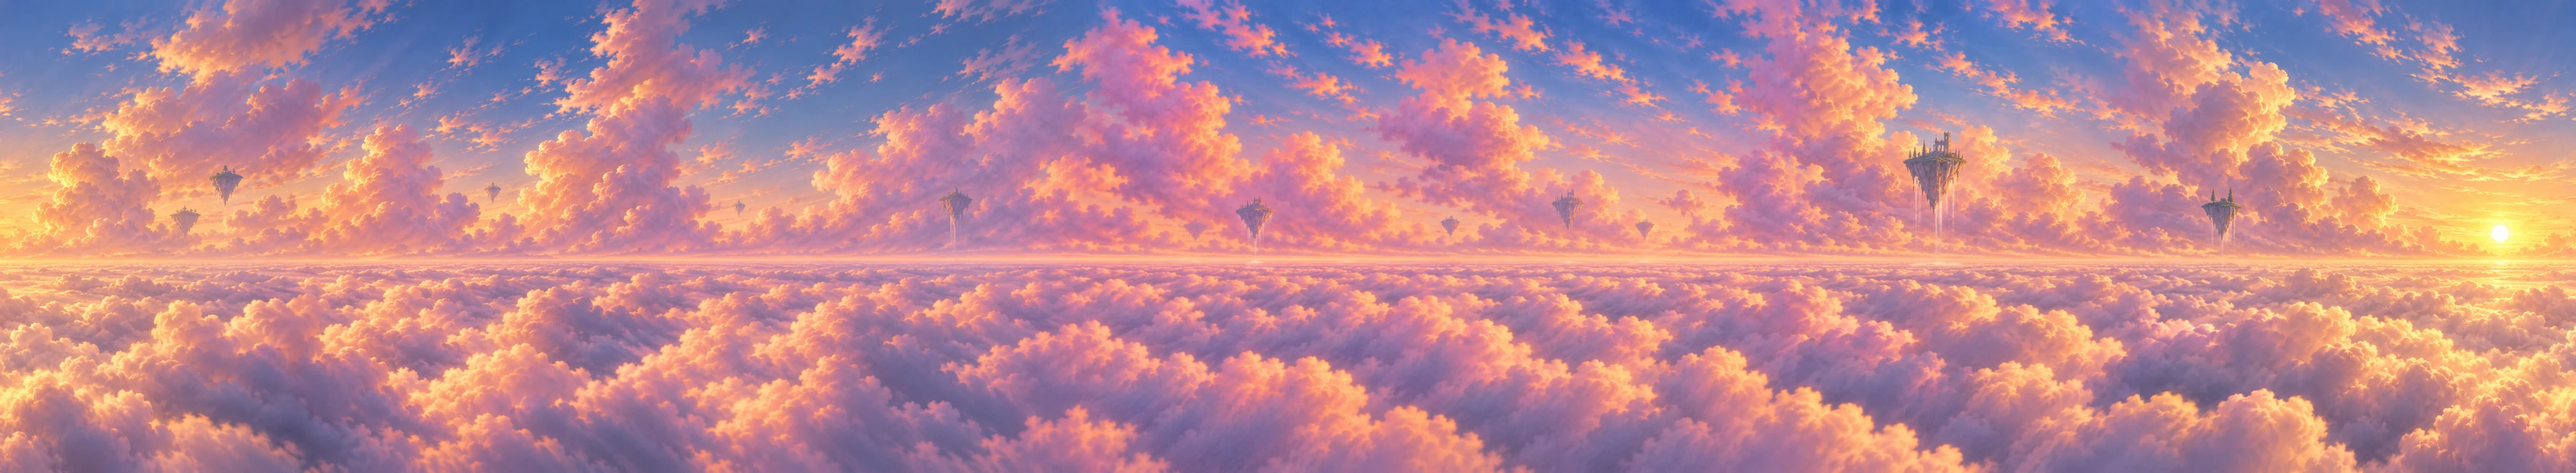
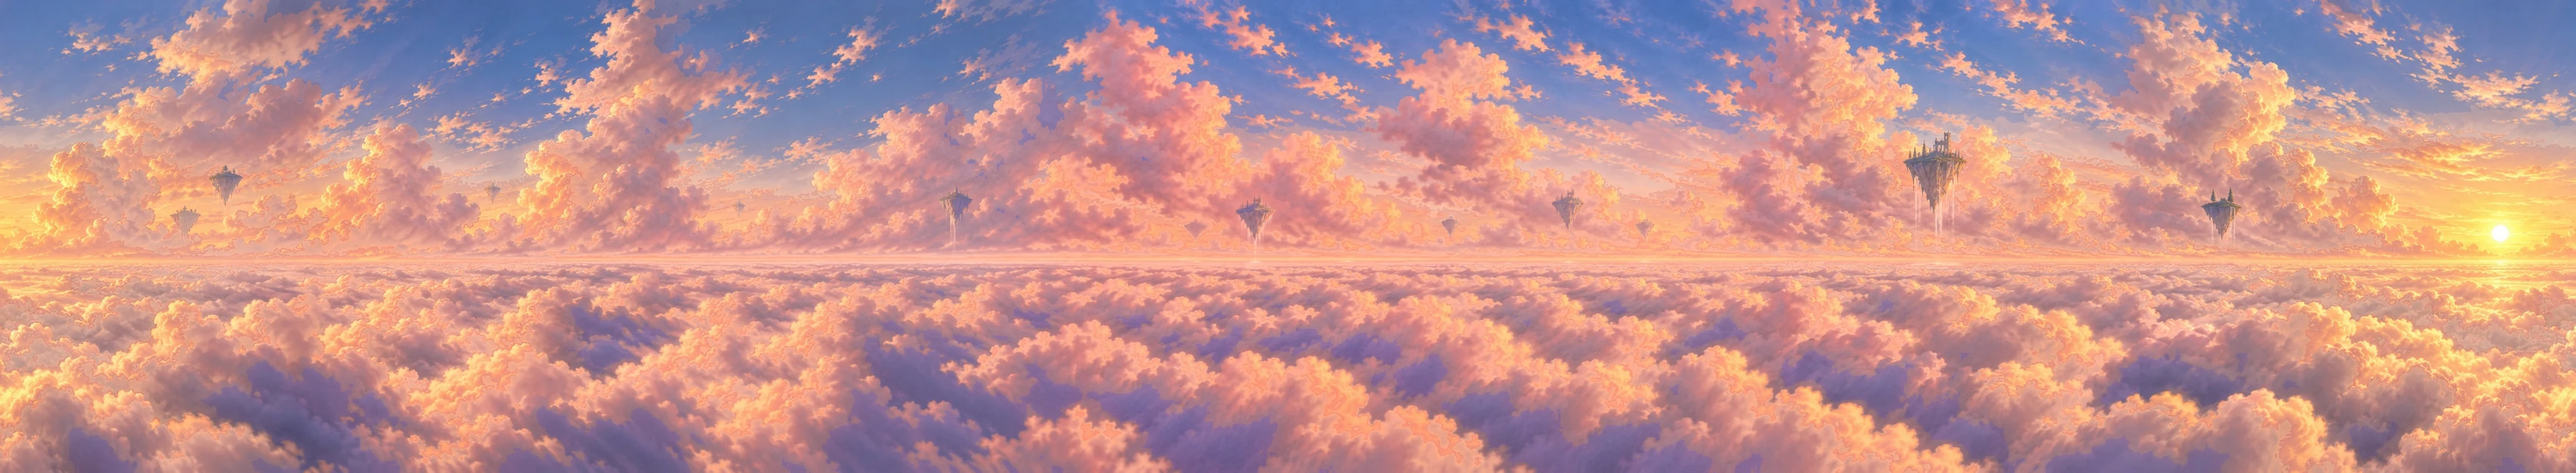
E392 Sky Reach toward the mockups, loop 10: a golden sky, the maelstrom under the crown, stone and ivy on the windmill, painted boulders
Judge on loop 9: 5.1 / 10 (H1 6, H2 6, H3 5, H4 3.5). This loop takes its top fixes:
- the painted sky graded toward the mockups' golden hour (round-17-mockup-loop/sky-grade.py: rose and magenta toward
  peach-cream, lavender high up toward blue), re-packed through prep.py (now takes a source image);
- the maelstrom: the near cloud sea twists toward a dark sunken eye under the storm crown, with bright spiral arms
  (look/cloudSea.ts SEA.maelstrom; the H4 top / diagonal targets), the sea's palette cooler lavender and cream;
- the windmill whitewash shows its stone (the islands' paint, lightly) with ivy climbing two sides from the foot;
- the boulders wear the islands' painted rock and moss (world/isle.ts paintIsleMaterial, shared);
- the two overhead sky isles moved clear of every god camera (one sat inside H3's diag-right view).

Claude-Session: https://claude.ai/code/session_01KzpL9cMyh5i2XoaL4jSdNw

diff --git a/src/shards/far-reach/look/panoramaData.ts b/src/shards/far-reach/look/panoramaData.ts
@@ -6,9 +6,9 @@ export const PANO_DEG_PER_V = 66.667;
 /** columns of wrap on either side of the shipped strips (the shader maps the heading inside them) */
 export const PANO_PAD_PX = 16;
 /** the painted sun: heading (degrees, 0 = -z, 90 = +x) and elevation (degrees) */
-export const PANO_SUN = { heading: 351.18, elevation: 4.29 } as const;
+export const PANO_SUN = { heading: 352.54, elevation: 4.75 } as const;
 /** sRGB 0..1: the painting's top rows (the dome above them) and bottom rows (the dome below) */
-export const PANO_ZENITH_SRGB = [0.3927, 0.4466, 0.6862] as const;
-export const PANO_NADIR_SRGB = [0.6022, 0.4345, 0.5389] as const;
+export const PANO_ZENITH_SRGB = [0.4208, 0.4793, 0.6817] as const;
+export const PANO_NADIR_SRGB = [0.6259, 0.4583, 0.5149] as const;
 /** the fog LUT: per heading (64 samples from 0), the painted haze just above the horizon, sRGB 0..1 (r, g, b interleaved) */
-export const PANO_FOG_SRGB = [0.9624, 0.7152, 0.4762, 0.9522, 0.6957, 0.4934, 0.9411, 0.6558, 0.5039, 0.9277, 0.6326, 0.5210, 0.9166, 0.6185, 0.5305, 0.9116, 0.6103, 0.5337, 0.9083, 0.6038, 0.5357, 0.9095, 0.6014, 0.5378, 0.8989, 0.5907, 0.5451, 0.8880, 0.5793, 0.5506, 0.8854, 0.5760, 0.5560, 0.8825, 0.5746, 0.5622, 0.8711, 0.5686, 0.5734, 0.8645, 0.5640, 0.5839, 0.8562, 0.5593, 0.5919, 0.8594, 0.5604, 0.5945, 0.8648, 0.5629, 0.5973, 0.8619, 0.5614, 0.6018, 0.8580, 0.5606, 0.6086, 0.8586, 0.5639, 0.6144, 0.8503, 0.5660, 0.6232, 0.8493, 0.5690, 0.6285, 0.8520, 0.5702, 0.6305, 0.8567, 0.5692, 0.6271, 0.8686, 0.5716, 0.6164, 0.8802, 0.5736, 0.6060, 0.8966, 0.5794, 0.5913, 0.9144, 0.5812, 0.5758, 0.9264, 0.5810, 0.5635, 0.9315, 0.5799, 0.5534, 0.9388, 0.5857, 0.5447, 0.9352, 0.5835, 0.5477, 0.9326, 0.5828, 0.5510, 0.9241, 0.5791, 0.5576, 0.9176, 0.5770, 0.5604, 0.9207, 0.5822, 0.5581, 0.9255, 0.5914, 0.5566, 0.9285, 0.5977, 0.5577, 0.9368, 0.6100, 0.5531, 0.9441, 0.6190, 0.5472, 0.9494, 0.6223, 0.5421, 0.9521, 0.6238, 0.5411, 0.9497, 0.6242, 0.5402, 0.9477, 0.6233, 0.5381, 0.9437, 0.6206, 0.5372, 0.9409, 0.6197, 0.5384, 0.9352, 0.6150, 0.5381, 0.9349, 0.6163, 0.5345, 0.9331, 0.6156, 0.5285, 0.9331, 0.6147, 0.5254, 0.9264, 0.6113, 0.5273, 0.9233, 0.6118, 0.5267, 0.9160, 0.6066, 0.5258, 0.9072, 0.6038, 0.5267, 0.8977, 0.5986, 0.5282, 0.8976, 0.6020, 0.5254, 0.8989, 0.6070, 0.5222, 0.9111, 0.6180, 0.5101, 0.9198, 0.6375, 0.4953, 0.9321, 0.6805, 0.4872, 0.9499, 0.7055, 0.4717, 0.9656, 0.7198, 0.4626, 0.9735, 0.7261, 0.4618, 0.9749, 0.7261, 0.4637];
+export const PANO_FOG_SRGB = [0.9639, 0.7232, 0.4794, 0.9567, 0.7075, 0.4982, 0.9503, 0.6749, 0.5117, 0.9427, 0.6614, 0.5322, 0.9378, 0.6578, 0.5453, 0.9383, 0.6593, 0.5517, 0.9396, 0.6611, 0.5563, 0.9432, 0.6632, 0.5587, 0.9379, 0.6594, 0.5638, 0.9303, 0.6512, 0.5651, 0.9295, 0.6497, 0.5680, 0.9276, 0.6487, 0.5713, 0.9184, 0.6428, 0.5762, 0.9143, 0.6400, 0.5819, 0.9070, 0.6329, 0.5826, 0.9106, 0.6346, 0.5843, 0.9163, 0.6381, 0.5874, 0.9138, 0.6352, 0.5880, 0.9107, 0.6334, 0.5909, 0.9116, 0.6360, 0.5954, 0.9040, 0.6356, 0.6011, 0.9027, 0.6373, 0.6054, 0.9043, 0.6373, 0.6056, 0.9076, 0.6357, 0.6015, 0.9168, 0.6377, 0.5947, 0.9259, 0.6396, 0.5882, 0.9379, 0.6430, 0.5790, 0.9525, 0.6459, 0.5696, 0.9634, 0.6486, 0.5627, 0.9674, 0.6479, 0.5560, 0.9719, 0.6504, 0.5511, 0.9699, 0.6501, 0.5534, 0.9691, 0.6528, 0.5581, 0.9638, 0.6527, 0.5640, 0.9593, 0.6525, 0.5665, 0.9605, 0.6551, 0.5659, 0.9632, 0.6611, 0.5665, 0.9640, 0.6634, 0.5668, 0.9674, 0.6678, 0.5626, 0.9700, 0.6692, 0.5564, 0.9733, 0.6708, 0.5526, 0.9753, 0.6720, 0.5522, 0.9730, 0.6717, 0.5514, 0.9705, 0.6700, 0.5490, 0.9678, 0.6688, 0.5487, 0.9660, 0.6692, 0.5509, 0.9615, 0.6656, 0.5509, 0.9599, 0.6643, 0.5473, 0.9567, 0.6615, 0.5422, 0.9565, 0.6600, 0.5394, 0.9510, 0.6575, 0.5406, 0.9477, 0.6579, 0.5400, 0.9414, 0.6540, 0.5397, 0.9345, 0.6538, 0.5416, 0.9263, 0.6505, 0.5437, 0.9247, 0.6507, 0.5409, 0.9225, 0.6499, 0.5359, 0.9297, 0.6535, 0.5227, 0.9351, 0.6680, 0.5062, 0.9435, 0.7047, 0.4955, 0.9554, 0.7204, 0.4773, 0.9660, 0.7268, 0.4655, 0.9706, 0.7277, 0.4626, 0.9715, 0.7267, 0.4641];

diff --git a/src/shards/far-reach/look/cloudSea.ts b/src/shards/far-reach/look/cloudSea.ts
@@ -8,7 +8,8 @@ import { SKY } from './sun';
  * the sun gold-pink, shade mauve, melting into the horizon gold with distance. The kill height (`world.killY`) sits just
  * above the high sheet, so a fall ends inside the cloud.
  */
-export const SEA = { size: 64, low: -48, high: -34, radius: 1400, handoff: [240, 700] } as const;
+/** `maelstrom`: the sea twists toward an eye under the storm crown (x, z, falloff radius m). */
+export const SEA = { size: 64, low: -48, high: -34, radius: 1400, handoff: [240, 700], maelstrom: { x: 0, z: -190, r: 95 } } as const;
 
 function hash(x: number, y: number): number { const s = Math.sin(x * 127.1 + y * 311.7) * 43758.5453; return s - Math.floor(s); }
 function noise(x: number, y: number, p: number): number {
@@ -55,7 +56,12 @@ export function cloudSea(sun: Vector3, tex: DataTexture): CloudSea {
           // loop 4: billows, not a sheet. A height field from three octaves of the baked noise; its slope toward the sun
           // lights the billow tops peach-gold and leaves lavender hollows (the panorama's cloud sea, look/sky.ts)
           vec2 drift = vec2(time * 0.0035, time * 0.0012);
-          vec2 uv = wp.xz * ${scale.toFixed(5)} + drift;
+          // the maelstrom round the storm crown (E392, the H4 targets): the sea's texture twisted toward an eye
+          vec2 rel = wp.xz - vec2(${SEA.maelstrom.x.toFixed(1)}, ${SEA.maelstrom.z.toFixed(1)});
+          float mr = length(rel), swirl = exp(-mr / ${SEA.maelstrom.r.toFixed(1)});
+          float ma = swirl * 3.2 + time * 0.03 * swirl;
+          vec2 twisted = vec2(cos(ma) * rel.x - sin(ma) * rel.y, sin(ma) * rel.x + cos(ma) * rel.y) + vec2(${SEA.maelstrom.x.toFixed(1)}, ${SEA.maelstrom.z.toFixed(1)});
+          vec2 uv = twisted * ${scale.toFixed(5)} + drift;
           vec2 sd = normalize(sunDir.xz) * 0.006;
           float h1 = texture2D(tex, uv).r, h2 = texture2D(tex, uv * 2.7 + 0.37).r, h3 = texture2D(tex, uv * 7.1 - 0.21).r;
           float h = h1 * 0.6 + h2 * 0.3 + h3 * 0.1;
@@ -69,6 +75,9 @@ export function cloudSea(sun: Vector3, tex: DataTexture): CloudSea {
           // hollows (low h) sink to lavender; crowns catch the light
           vec3 c = mix(shade * (0.82 + 0.25 * dens), top, smoothstep(0.3, 0.85, lit) * smoothstep(0.15, 0.7, dens));
           c += ${hex(SKY.sun)} * pow(s, 12.0) * 0.3 * dens;
+          // the maelstrom's arms brighter, its eye a dark sunken well
+          float marm = 0.5 + 0.5 * sin(3.0 * atan(rel.y, rel.x) + 4.0 * log(mr + 1.0) - time * 0.05);
+          c *= mix(1.0, 0.82 + 0.3 * marm, swirl) * mix(0.45, 1.0, smoothstep(12.0, 48.0, mr));
           c = mix(c, ${hex(SKY.horizon)}, smoothstep(180.0, 1100.0, dist) * 0.6);
           // past the near sea the painted panorama's cloud sea takes over, so the sheets thin out with distance
           float far = 1.0 - smoothstep(${SEA.handoff[0].toFixed(1)}, ${SEA.handoff[1].toFixed(1)}, dist);

diff --git a/src/shards/far-reach/world/mill.ts b/src/shards/far-reach/world/mill.ts
@@ -1,5 +1,6 @@
 import { BoxGeometry, Color, CylinderGeometry, DoubleSide, Float32BufferAttribute, Group, LatheGeometry, Mesh, MeshStandardMaterial, Vector2, type BufferGeometry, type Object3D } from 'three';
 import { mergeGeometries } from 'three/examples/jsm/utils/BufferGeometryUtils.js';
+import { paintIsleMaterial } from './isle';
 
 /**
  * The windmill (loop 5; mockup A and the style bible's "white stone tower, slate cap, cloth sails"): a code-built tower
@@ -30,7 +31,7 @@ function tower(): BufferGeometry {
   const g = new LatheGeometry(pts, 48).toNonIndexed();
   // whitewashed stone blocks (council round 2: "a plain cream windmill"): each course and block its own tone, the joints
   // staggered; grey-brown streaks run down under the windows; grime and moss at the foot; warm where the sun reaches
-  const lime = new Color(0xf1e9da), block = new Color(0xd9ccb8), stain = new Color(0x9c8c78), dirt = new Color(0x8f7c66), moss = new Color(0x7d8a48), out = new Color();
+  const lime = new Color(0xf1e9da), block = new Color(0xd9ccb8), stain = new Color(0x9c8c78), dirt = new Color(0x8f7c66), moss = new Color(0x7d8a48), ivy = new Color(0x4f6e2c), out = new Color();
   const p = g.getAttribute('position'), col: number[] = [];
   for (let k = 0; k < p.count; k += 3) {
     // colour per face (flat blocks), from the face's centre
@@ -43,6 +44,9 @@ function tower(): BufferGeometry {
     }
     if (cy < 1.4) out.lerp(dirt, ((1.4 - cy) / 1.4) * 0.6);
     if (cy < 0.6 && hash(blockN, 7) > 0.5) out.lerp(moss, 0.45);
+    // ivy climbing from the foot on two sides (E392, the H2 targets), ragged at its top
+    const ivySide = Math.max(0, Math.cos(a - 2.2)) ** 2 + Math.max(0, Math.cos(a + 1.4)) ** 3;
+    if (cy < 1.5 + ivySide * 4.5 * (0.6 + 0.4 * hash(blockN, course)) && ivySide > 0.18) out.copy(ivy).lerp(moss, hash(course, blockN) * 0.4);
     for (let v = 0; v < 3; v++) col.push(out.r, out.g, out.b);
   }
   g.setAttribute('color', new Float32BufferAttribute(col, 3)); g.computeVertexNormals();
@@ -71,7 +75,8 @@ function sail(): { frame: BufferGeometry; cloth: BufferGeometry } {
 
 export function towerMill(): { group: Group; hub: Object3D; hubAt: { y: number; z: number } } {
   const group = new Group(), hub = new Group();
-  const stone = new MeshStandardMaterial({ vertexColors: true, roughness: 0.92, metalness: 0 });
+  // the islands' paint, lightly: the whitewash shows its stone, the ivy reads as leaves (E392)
+  const stone = paintIsleMaterial(new MeshStandardMaterial({ vertexColors: true, roughness: 0.92, metalness: 0 }), 0.35);
   group.add(new Mesh(tower(), stone));
   const wood = new MeshStandardMaterial({ color: 0x6b4a32, roughness: 0.9, metalness: 0 }), dark = new MeshStandardMaterial({ color: 0x2c2430, roughness: 1, metalness: 0 });
   // the door and three windows on the side facing the spawn (+z), each set into the taper

diff --git a/src/shards/far-reach/world/isle.ts b/src/shards/far-reach/world/isle.ts
@@ -145,7 +145,16 @@ export function islandMesh(isle: Isle, random: () => number): Mesh {
   g.setAttribute('position', new Float32BufferAttribute(pos, 3)); g.setAttribute('color', new Float32BufferAttribute(col, 3));
   g.setIndex(idx); g.computeVertexNormals();
   // faceted: the crags read as cut rock, the meadow top as a low-poly painted lawn
-  const material = new MeshStandardMaterial({ vertexColors: true, roughness: 0.95, metalness: 0, flatShading: true });
+  const material = paintIsleMaterial(new MeshStandardMaterial({ vertexColors: true, roughness: 0.95, metalness: 0, flatShading: true }));
+  return new Mesh(g, material);
+}
+
+/**
+ * The islands' paint (E392), on any vertex-coloured material (the islands, the boulders): green faces get the painted
+ * meadow, tonal patches and daisies; the rest the painted cliff rock, triplanar in world space. `rockMix` is how much of
+ * the rock texture replaces the vertex colour (the boulders and the islands 0.85).
+ */
+export function paintIsleMaterial(material: MeshStandardMaterial, rockMix = 0.85): MeshStandardMaterial {
   // the meadow from above (E392, the aerial targets): tonal patches and scattered daisies painted in world space on the
   // green faces, so a top reads as a flowered meadow, not one smooth green
   const { rock, meadow } = TEX;
@@ -182,11 +191,11 @@ ${shader.fragmentShader.replace('#include <color_fragment>', `#include <color_fr
     vec3 tw = pow(abs(fn), vec3(4.0)); tw /= (tw.x + tw.y + tw.z);
     vec3 wq = farWP * 0.13;
     vec3 tex = texture2D(farRock, wq.zy).rgb * tw.x + texture2D(farRock, wq.xz).rgb * tw.y + texture2D(farRock, wq.xy).rgb * tw.z;
-    diffuseColor.rgb = mix(diffuseColor.rgb, tex * (0.55 + 1.3 * dot(diffuseColor.rgb, vec3(0.3, 0.59, 0.11))), 0.85);
+    diffuseColor.rgb = mix(diffuseColor.rgb, tex * (0.55 + 1.3 * dot(diffuseColor.rgb, vec3(0.3, 0.59, 0.11))), ${rockMix.toFixed(2)});
 #endif
   }`)}`;
   // its own program key: three caches programs by the last patch's text, and the scene-wide fog patch (look/render.ts)
   // is the same text on every material, so without a key the islands reuse an unpatched program
-  }, { key: (prior) => `${prior}|far.isle-meadow:${rock !== null ? 'r' : ''}${meadow !== null ? 'm' : ''}` });
-  return new Mesh(g, material);
+  }, { key: (prior) => `${prior}|far.isle-meadow:${rock !== null ? 'r' : ''}${meadow !== null ? 'm' : ''}:${rockMix}` });
+  return material;
 }

diff --git a/src/shards/far-reach/world/dressing.ts b/src/shards/far-reach/world/dressing.ts
@@ -1,5 +1,6 @@
 import { BufferGeometry, Color, ConeGeometry, DoubleSide, Float32BufferAttribute, Group, IcosahedronGeometry, InstancedMesh, Matrix4, MeshStandardMaterial, Quaternion, Vector3 } from 'three';
 import { PATCH_ORDER, patchShader } from '#engine';
+import { paintIsleMaterial } from './isle';
 import { DECK, ISLES, SPANS, SPAWN, apothem, type Isle } from '../layout';
 
 /**
@@ -154,7 +155,8 @@ export function dressIslands(isles: readonly Isle[] = ISLES, seed = 6417, landin
   place(new InstancedMesh(clumpGeometry(), clumpMaterial, clumps.length), clumps);
   const flowerMesh = new InstancedMesh(flowerGeometry(), new MeshStandardMaterial({ side: DoubleSide, roughness: 1, metalness: 0, emissive: 0x2a2418 }), flowers.length);
   place(flowerMesh, flowers); const fc = new Color(); flowers.forEach((f, i) => { flowerMesh.setColorAt(i, fc.setHex(f.c)); });
-  place(new InstancedMesh(stoneGeometry(), new MeshStandardMaterial({ vertexColors: true, flatShading: true, roughness: 0.95, metalness: 0 }), stones.length), stones, 0.55);
+  // the boulders wear the islands' painted rock and moss (E392: flat olive blobs up close)
+  place(new InstancedMesh(stoneGeometry(), paintIsleMaterial(new MeshStandardMaterial({ vertexColors: true, flatShading: true, roughness: 0.95, metalness: 0 })), stones.length), stones, 0.55);
   // a strand 1 m long, tip down: its wide end at y 0 hangs from the rim band; instances stretch it to their length
   const strand = new ConeGeometry(0.16, 1, 5, 1, true); strand.rotateX(Math.PI); strand.translate(0, -0.5, 0);
   // roots and vines: dark roots with moss-green vine strands among them

diff --git a/src/shards/far-reach/world/skyIsles.ts b/src/shards/far-reach/world/skyIsles.ts
@@ -23,7 +23,7 @@ export const SKY_ISLES: readonly SkyIsle[] = [
   isle('r3', 112, -100, 11, 38, 20, 3, null), isle('r4', 62, -180, 16, 70, 28, 5, Math.PI * 0.75),
   isle('r5', 135, -175, 18, 50, 30, 6, Math.PI * 0.85),
   // overhead: two huge isles hanging high over the bridge, their roots trailing (mockup A's upper third)
-  isle('o1', -30, -84, 20, 84, 30, 6, Math.PI * 0.3), isle('o2', 38, -102, 22, 92, 32, 6, Math.PI * 0.7),
+  isle('o1', -22, -92, 20, 96, 30, 6, Math.PI * 0.3), isle('o2', 30, -140, 22, 108, 32, 6, Math.PI * 0.7),
   // around and behind, for the other views and the aerials
   isle('b1', -95, 45, 14, 52, 24, 4, Math.PI * 0.4), isle('b2', 98, 40, 13, 44, 22, 4, null),
   isle('b3', 20, 95, 16, 60, 26, 5, Math.PI * 1.5), isle('b4', -40, -255, 20, 62, 32, 6, Math.PI * 1.2),

diff --git a/src/shards/far-reach/look/sun.ts b/src/shards/far-reach/look/sun.ts
@@ -17,7 +17,7 @@ export function sunFromHeading(heading: number, elevation: number): Vector3 {
 export const SKY = {
   zenith: 0x7f95d0, mid: 0xefb9ad, horizon: 0xffd89c, below: 0xf6e3d6, sun: 0xffdba2, key: 0xffd2a2, fog: 0xf0c9b6,
   cloudShade: 0xb08fb4, cloudShadeWarm: 0xe0a294, cloudLit: 0xffe0c4, isle: 0x9d8fb8, isleLit: 0xe2ad8c,
-  seaShade: 0xb092a8, seaShadeWarm: 0xe0a896, seaLit: 0xfff1e2,
+  seaShade: 0xa29dbd, seaShadeWarm: 0xe6b996, seaLit: 0xfff3e2,
 } as const;
 /** E392 (the targets are clear and golden, our frames sat under a rose veil): the haze starts later and never covers more than `max`. */
 export const FOG = { near: 170, far: 720, max: 0.6 } as const;

diff --git a/art/far-reach/round-17-mockup-loop/sky-grade.py b/art/far-reach/round-17-mockup-loop/sky-grade.py
@@ -1,0 +1,37 @@
+"""The panorama toward the mockups' golden hour (E392, the judge: "the sky is pink-magenta, the mockup's gold low and
+lavender-blue high"). Hue-shifts the loop-4 panorama: rose and magenta toward peach and gold, lavender-violet toward a
+soft blue, more so up high; writes panorama-graded.jpg, then:
+
+  python3 ../round-14-loop-4/pano/prep.py 564 panorama-graded.jpg      # -> the shipped strips + look/panoramaData.ts
+"""
+import colorsys, os
+import numpy as np
+from PIL import Image
+
+HERE = os.path.dirname(os.path.abspath(__file__))
+src = np.asarray(Image.open(os.path.join(HERE, '../round-14-loop-4/pano/panorama-5530x1024.jpg')).convert('RGB')).astype(np.float64) / 255
+H, W, _ = src.shape
+hsv = np.zeros_like(src)
+r, g, b = src[..., 0], src[..., 1], src[..., 2]
+mx, mn = src.max(-1), src.min(-1); d = mx - mn + 1e-9
+h = np.where(mx == r, ((g - b) / d) % 6, np.where(mx == g, (b - r) / d + 2, (r - g) / d + 4)) / 6   # 0..1
+s = np.where(mx > 0, d / (mx + 1e-9), 0); v = mx
+deg = h * 360
+row = np.linspace(0, 1, H)[:, None]                 # 0 top .. 1 bottom
+high = np.clip((0.55 - row) / 0.55, 0, 1)           # 1 at the top, 0 at the horizon (row 0.55)
+# rose / magenta (290..360 and 0..10) -> toward peach-gold (+28..40 deg), less near the horizon's gold
+pink = ((deg > 290) | (deg < 10)).astype(float)
+shift = np.where(deg > 290, (360 - deg) + 30, 30 - deg) * 0.45   # pulls 330 -> ~359, 300 -> ~331: toward peach
+deg2 = np.where(pink > 0, (deg + shift) % 360, deg)
+# lavender-violet (240..290) high up -> toward soft blue (225)
+lav = ((deg2 > 240) & (deg2 <= 290)).astype(float) * high
+deg2 = deg2 - lav * (deg2 - 225) * 0.7
+s2 = s * (1 - 0.12 * high)                          # a touch less saturated high up
+v = np.clip(v * (1 + 0.07 * pink), 0, 1)             # the shifted clouds a little brighter (cream-gold, not tan)
+h2 = deg2 / 360
+i = np.floor(h2 * 6); f = h2 * 6 - i; p = v * (1 - s2); q = v * (1 - f * s2); t = v * (1 - (1 - f) * s2); i = i.astype(int) % 6
+out = np.choose(i[..., None].repeat(3, -1) * 0 + np.arange(3)[None, None, :] * 0 + i[..., None],
+                [np.stack([v, t, p], -1), np.stack([q, v, p], -1), np.stack([p, v, t], -1), np.stack([p, q, v], -1), np.stack([t, p, v], -1), np.stack([v, p, q], -1)])
+Image.fromarray((out.clip(0, 1) * 255).astype(np.uint8)).save(os.path.join(HERE, 'panorama-graded.jpg'), quality=92)
+Image.fromarray((out.clip(0, 1) * 255).astype(np.uint8)).resize((2400, 444)).save(os.path.join(HERE, 'panorama-graded-preview.jpg'), quality=85)
+print('ok', out.shape)

diff --git a/art/far-reach/round-14-loop-4/pano/prep.py b/art/far-reach/round-14-loop-4/pano/prep.py
@@ -1,6 +1,6 @@
 """Sky Reach panorama -> the shipped strips and look/panoramaData.ts (loop 4, E374).
 
-  python3 prep.py <horizon row in panorama.png>       # e.g. 566
+  python3 prep.py <horizon row in panorama.png> [source image]      # e.g. 564 ../../round-17-mockup-loop/panorama-graded.jpg
 
 Writes public/assets/far-reach/sky/panorama.webp (desktop, native 5530 px) and panorama.phone.webp (4096 px), each
 carrying PAD columns of wrap on either side (a lossy codec encodes an image's edges on their own: an unpadded strip
@@ -17,7 +17,8 @@ REPO = os.path.abspath(os.path.join(HERE, '../../../..'))
 PAD = 16
 PPD = 15.36
 _png = os.path.join(HERE, 'panorama.png')  # the stitch's output; the committed source is its q92 JPEG
-src = np.asarray(Image.open(_png if os.path.exists(_png) else os.path.join(HERE, 'panorama-5530x1024.jpg')).convert('RGB')).astype(np.float64)
+_src = os.path.abspath(sys.argv[2]) if len(sys.argv) > 2 else (_png if os.path.exists(_png) else os.path.join(HERE, 'panorama-5530x1024.jpg'))  # E392: a graded source
+src = np.asarray(Image.open(_src).convert('RGB')).astype(np.float64)
 H, W, _ = src.shape
 hor = float(sys.argv[1])
 
